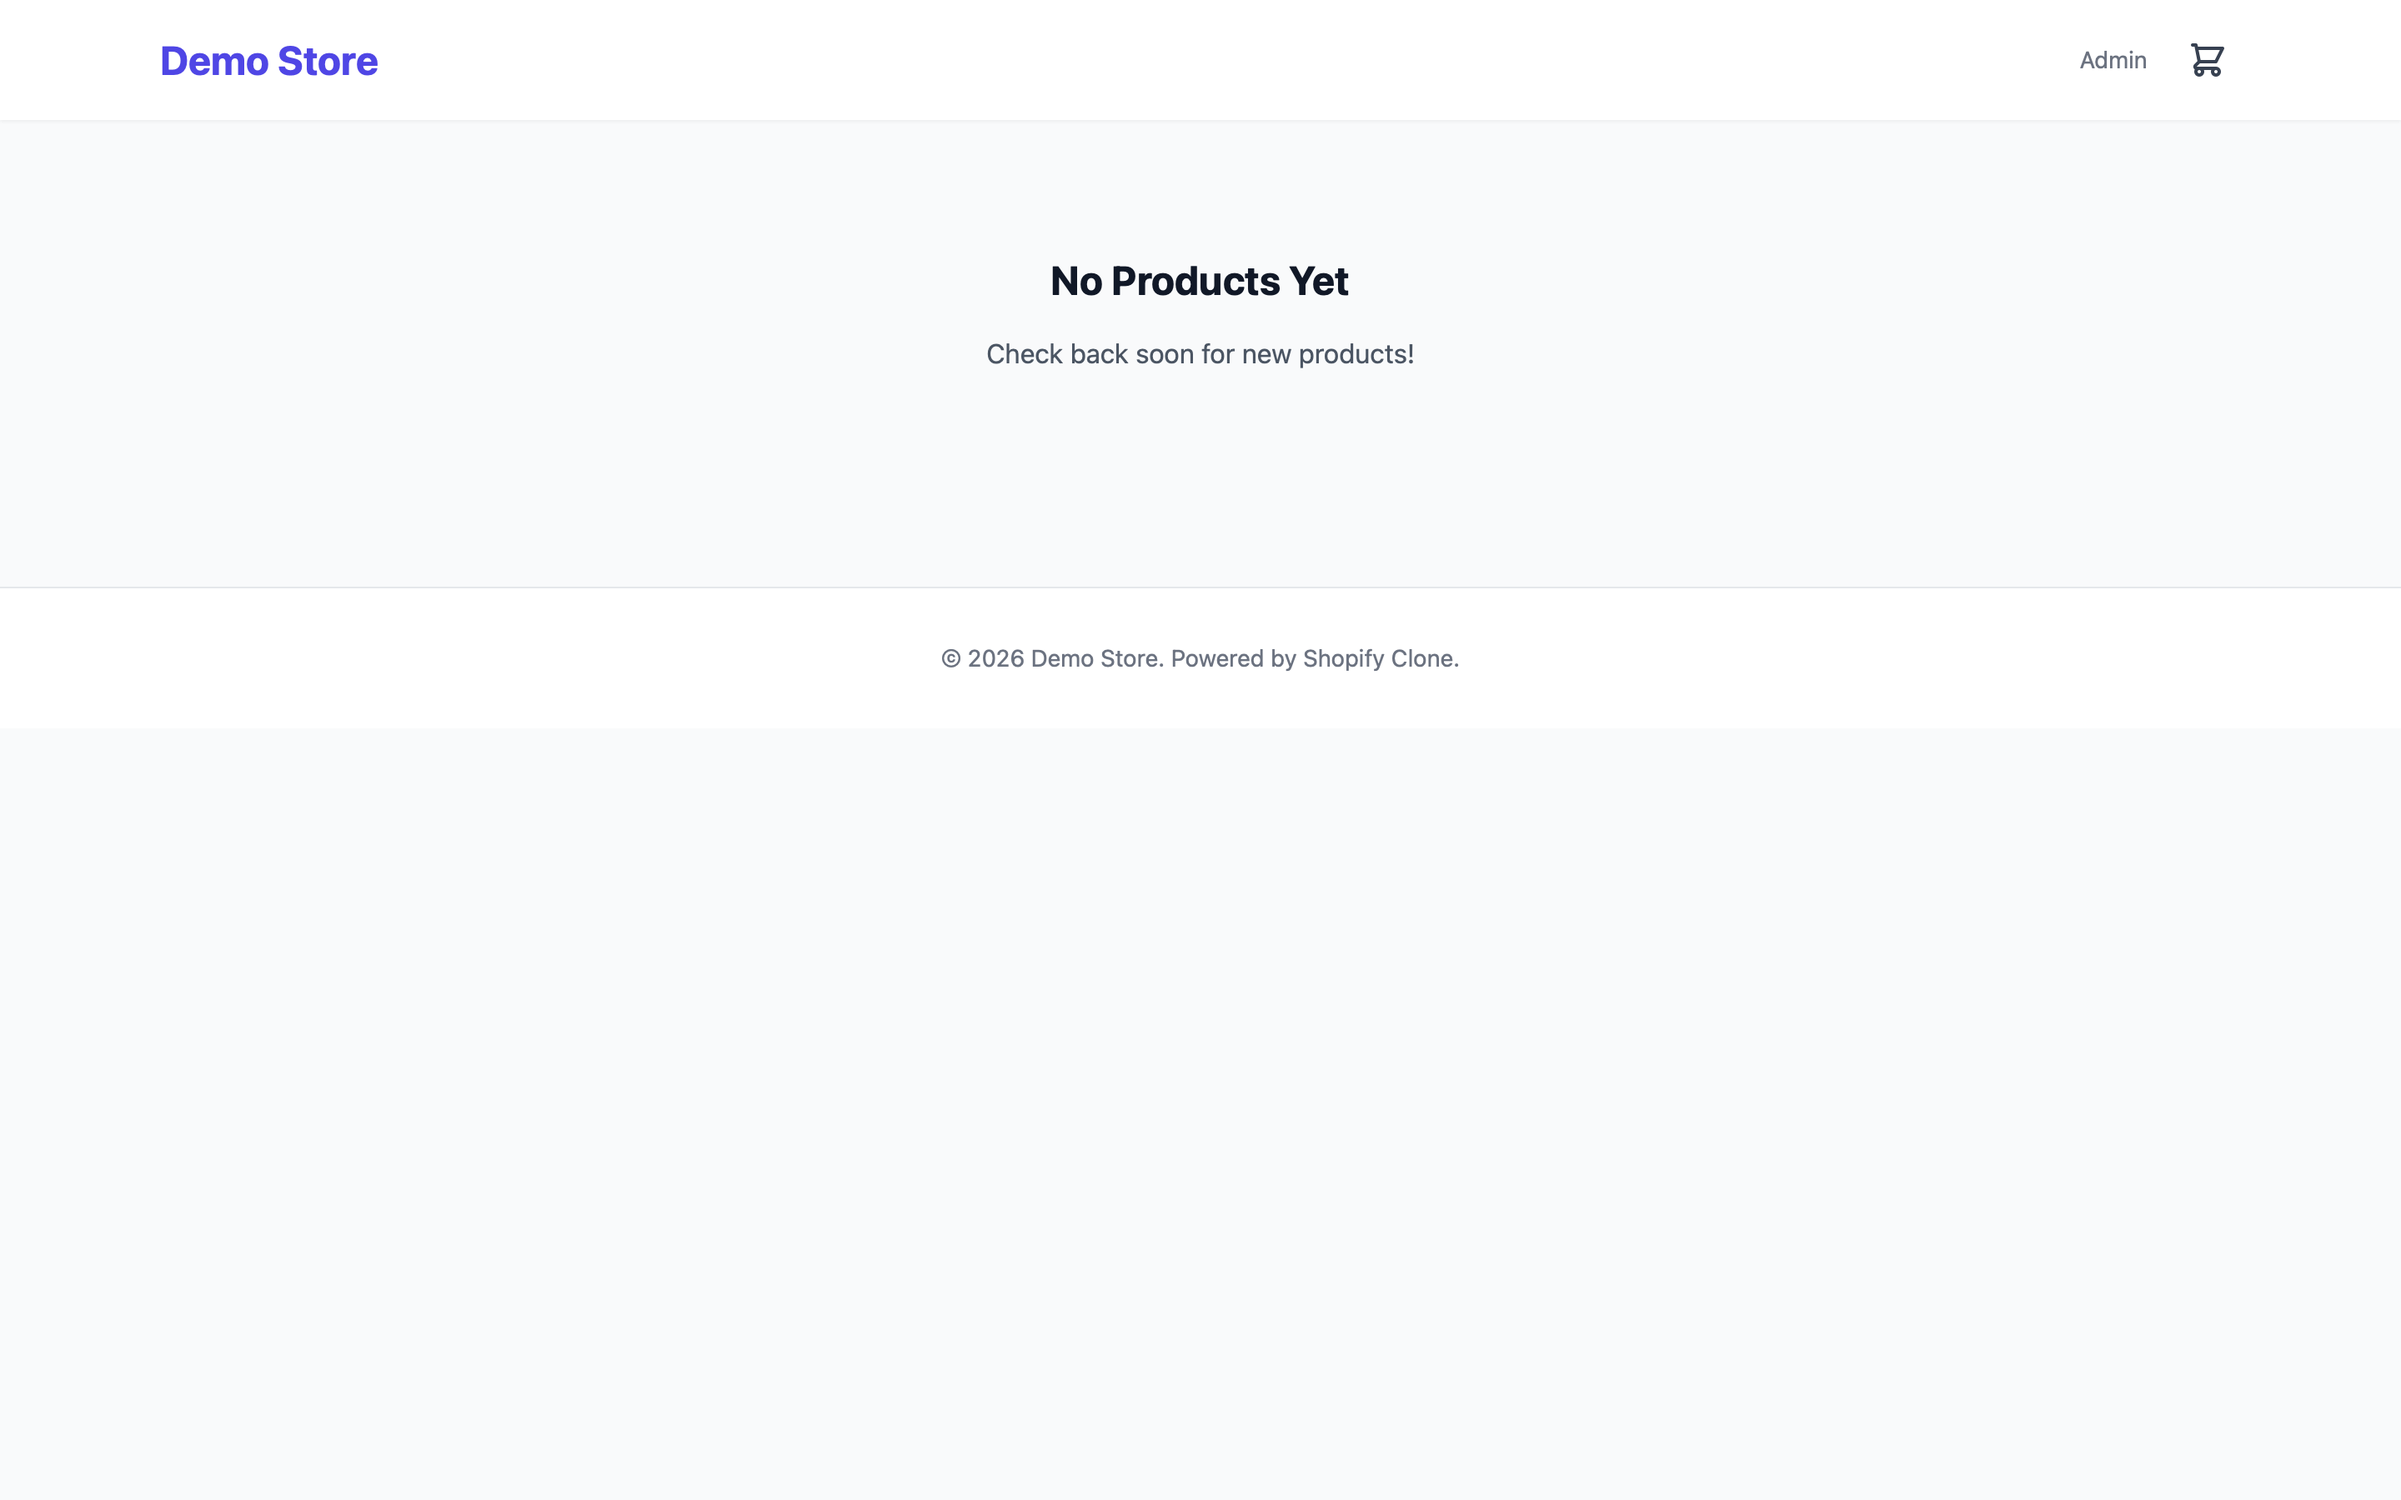
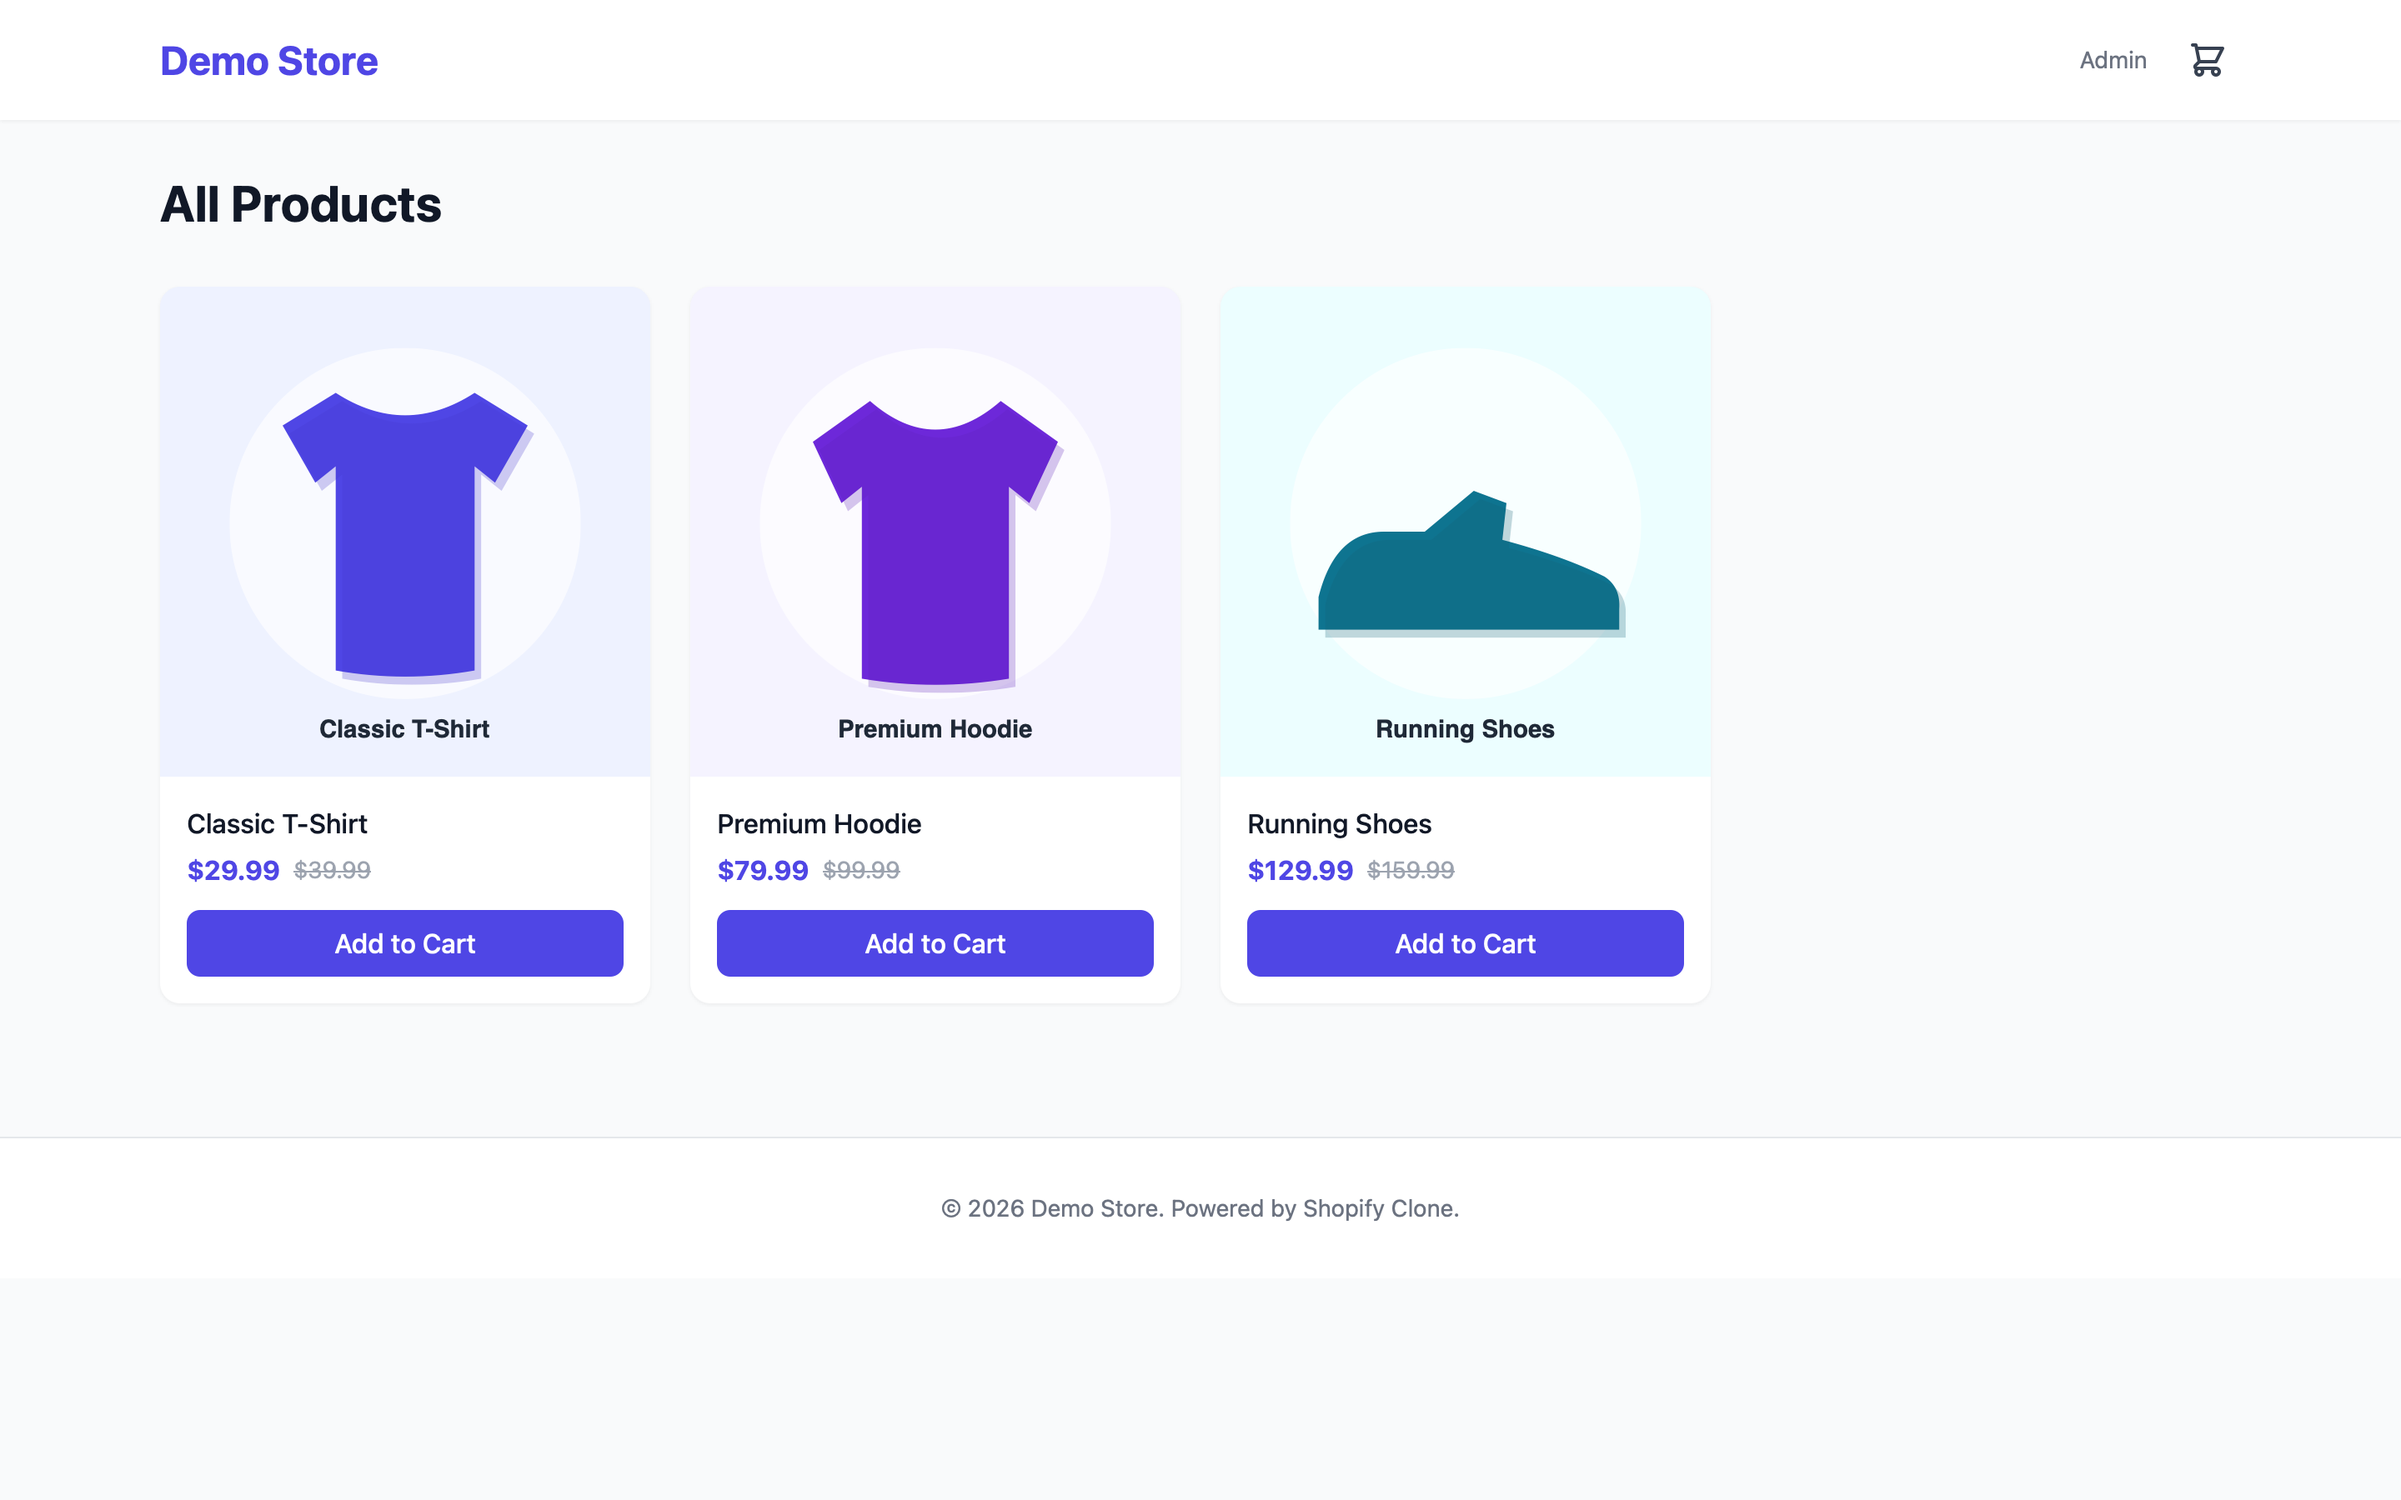
fix

diff --git a/slack/backend/src/services/elasticsearch.ts b/slack/backend/src/services/elasticsearch.ts
@@ -7,6 +7,7 @@
 import { Client } from '@elastic/elasticsearch';
 import type { QueryDslQueryContainer } from '@elastic/elasticsearch/lib/api/types.js';
 import dotenv from 'dotenv';
+import { pool } from '../db/index.js';
 
 dotenv.config();
 
@@ -67,6 +68,49 @@ export async function initializeElasticsearch(): Promise<void> {
   } catch (error) {
     console.error('Failed to initialize Elasticsearch:', error);
     // Don't throw - search will be unavailable but app should still work
+  }
+}
+
+/**
+ * Bulk-indexes every message already in Postgres, but only when the index is
+ * empty.
+ *
+ * Messages are indexed on the send path, so anything loaded straight into
+ * Postgres by the SQL seed exists only in the source of truth and is invisible
+ * to search. The Postgres FTS fallback does not cover this: it triggers when
+ * Elasticsearch is *unreachable*, whereas a seeded database leaves ES perfectly
+ * reachable and simply empty — so search returns zero hits rather than falling
+ * back, and the whole search tier looks broken.
+ *
+ * Runs at boot rather than at seed time because the index has to exist first,
+ * and on a cold start ES is usually still coming up when the seed runs.
+ */
+export async function backfillIndexIfEmpty(): Promise<void> {
+  try {
+    const { count } = await esClient.count({ index: MESSAGES_INDEX });
+    if (count > 0) return;
+
+    const { rows } = await pool.query<{
+      id: number;
+      workspace_id: string;
+      channel_id: string;
+      user_id: string;
+      content: string;
+      created_at: Date;
+    }>(
+      'SELECT id, workspace_id, channel_id, user_id, content, created_at FROM messages ORDER BY id'
+    );
+    if (rows.length === 0) return;
+
+    for (const row of rows) {
+      await indexMessage(row);
+    }
+    // Search is near-real-time; force a refresh so results are queryable
+    // immediately rather than after the next automatic refresh interval.
+    await esClient.indices.refresh({ index: MESSAGES_INDEX });
+    console.log(`Backfilled ${rows.length} seeded messages into the search index`);
+  } catch (error) {
+    console.error('Search index backfill skipped:', error);
   }
 }
 

diff --git a/slack/backend/src/index.ts b/slack/backend/src/index.ts
@@ -22,7 +22,7 @@ import messageRoutes from './routes/messages.js';
 import searchRoutes from './routes/search.js';
 
 import { setupWebSocket, getConnectedUsersCount } from './services/websocket.js';
-import { initializeElasticsearch } from './services/elasticsearch.js';
+import { initializeElasticsearch, backfillIndexIfEmpty } from './services/elasticsearch.js';
 import { redis } from './services/redis.js';
 import { logger, createRequestLogger } from './services/logger.js';
 import {
@@ -279,10 +279,14 @@ async function start(): Promise<void> {
     await pool.query('SELECT 1');
     logger.info({ msg: 'PostgreSQL connected' });
 
-    // Initialize Elasticsearch (non-blocking)
-    initializeElasticsearch().catch((err) => {
-      logger.warn({ err, msg: 'Elasticsearch initialization failed - search may be unavailable' });
-    });
+    // Initialize Elasticsearch (non-blocking), then index anything the SQL seed
+    // loaded straight into Postgres — those messages never went through the
+    // send path, so they are absent from the index until backfilled.
+    initializeElasticsearch()
+      .then(() => backfillIndexIfEmpty())
+      .catch((err) => {
+        logger.warn({ err, msg: 'Elasticsearch initialization failed - search may be unavailable' });
+      });
 
     server.listen(PORT, () => {
       logger.info({

diff --git a/shopify/backend/src/routes/stores.ts b/shopify/backend/src/routes/stores.ts
@@ -25,7 +25,14 @@ export async function resolveStore(
   next: NextFunction
 ): Promise<void> {
   const host = req.get('host') || '';
-  const subdomain = (req.query.subdomain as string) || req.headers['x-store-subdomain'] as string;
+  // Storefront routes are mounted as /api/storefront/:subdomain/*, so the path
+  // param is the primary signal locally — there is no real subdomain on
+  // localhost, and without this every tenant-scoped storefront query resolves
+  // to no store and returns "Store not found".
+  const subdomain =
+    (req.params.subdomain as string) ||
+    (req.query.subdomain as string) ||
+    (req.headers['x-store-subdomain'] as string);
 
   let storeId: number | null = null;
 

diff --git a/shopify/CLAUDE.md b/shopify/CLAUDE.md
@@ -50,6 +50,13 @@ Login stores a session in Valkey and sets an httpOnly cookie. Chosen for immedia
 - **2026-07 (seed password normalization):** demo credentials in the README were `merchant123`; the repo-wide seeded login password is `password123`. Fixed the README to match the seeded bcrypt hash in `backend/db-seed/seed.sql`.
 - **Schema-apply mechanism (current characteristic, noted for future work):** `init.sql` is applied **only** through the `docker-entrypoint-initdb.d` mount, which runs solely on a fresh Postgres volume; there is no `migrate.ts` / `npm run db:migrate` and the seed (`db-seed/seed.sql`) is not mounted, so seeding is a manual `psql` step. A persisted volume that predates a schema change will not pick it up. Adding an idempotent migrate step would make this self-healing (see Open Questions).
 
+- **2026-08-07 (the storefront sold nothing and the dashboard showed nothing):** three separate faults, only the first of which was a real code bug.
+  1. **`resolveStore` never read `req.params`.** Storefront routes are mounted as `/api/storefront/:subdomain/products`, but the middleware resolved the tenant only from `?subdomain=`, an `x-store-subdomain` header, or the **Host** header. On localhost the host is `localhost:3001`, so nothing matched, `storeId` stayed null, and every tenant-scoped storefront endpoint returned `Store not found` — rendering "No Products Yet" on a store that had three products. `/api/storefront/:subdomain` itself worked, which is what made this confusing: the store loaded, its theme applied, and only the *contents* were missing. Fixed by making the path param the primary signal. Worth noting the RLS design (decision 1) meant the failure mode was an empty page rather than a cross-tenant leak — the un-scoped query returned nothing, exactly as intended.
+  2. **The screenshot config pointed at `/admin`, which does not exist.** There is no platform-admin route — `frontend/src/routes/admin/` contains only `$storeId.tsx`. The capture was a bare "Not Found". Replaced with the real merchant dashboard at `/admin/1` plus its Products / Orders / Customers tabs.
+  3. **The seed had no orders or customers**, so the dashboard read $0.00 across four empty tiles. Added five customers and six orders with line items, deliberately mixed: one `refunded`, one `payment_pending` (the Opossum fallback path from decision 5), and a `partial` fulfillment — a uniform wall of "paid / fulfilled" would demonstrate none of the state machine the schema encodes.
+- Also gave the seeded products inline SVG data-URI images. The storefront renders a gray placeholder icon for imageless products, so three empty squares read as broken rather than unstocked; data URIs keep the fixture self-contained instead of pushing half of it into MinIO.
+- **Screenshots:** 4 (one a 404, one an empty storefront) → 7, all showing real data.
+
 ## Open Questions
 
 1. Should this project adopt the repo's `migrate.ts` + `db:migrate` pattern so schema changes apply on every boot instead of only on a fresh volume?
